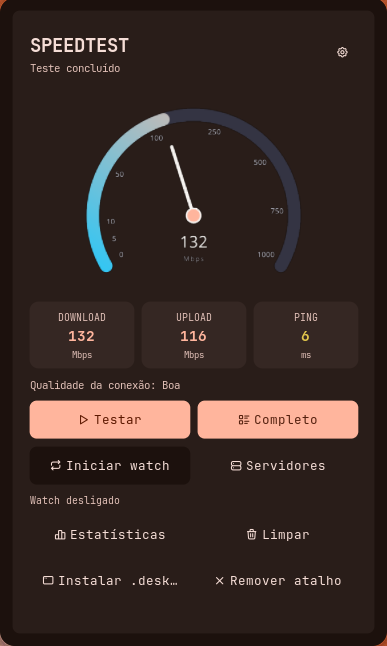
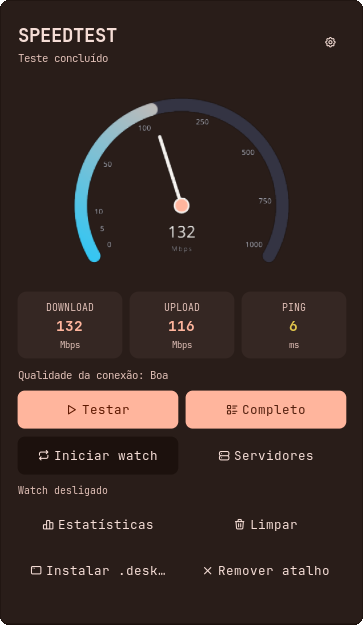
Crop and center plugin screenshot

diff --git a/README.md b/README.md
@@ -2,7 +2,9 @@
 
 Faça testes de velocidade sem sair do Noctalia. O painel mostra download, upload e latência em um velocímetro animado, com histórico e informações da conexão.
 
-![Painel do plugin SpeedTest no Noctalia](screenshots/speedtest-panel.png)
+<p align="center">
+  <img src="screenshots/speedtest-panel.png" alt="Painel do plugin SpeedTest no Noctalia" width="400">
+</p>
 
 ## Recursos
 
